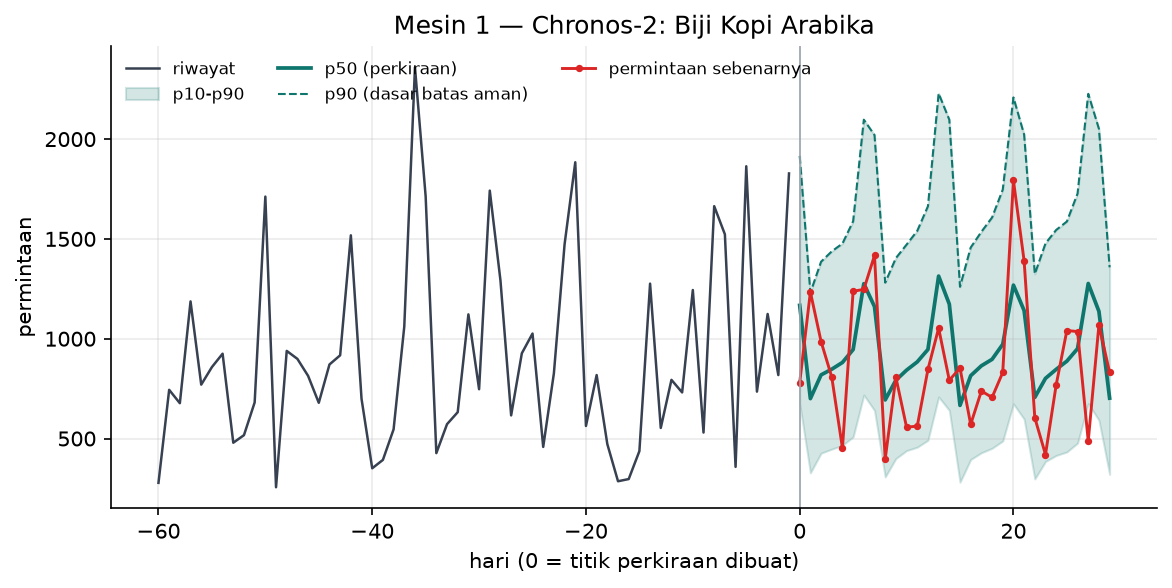
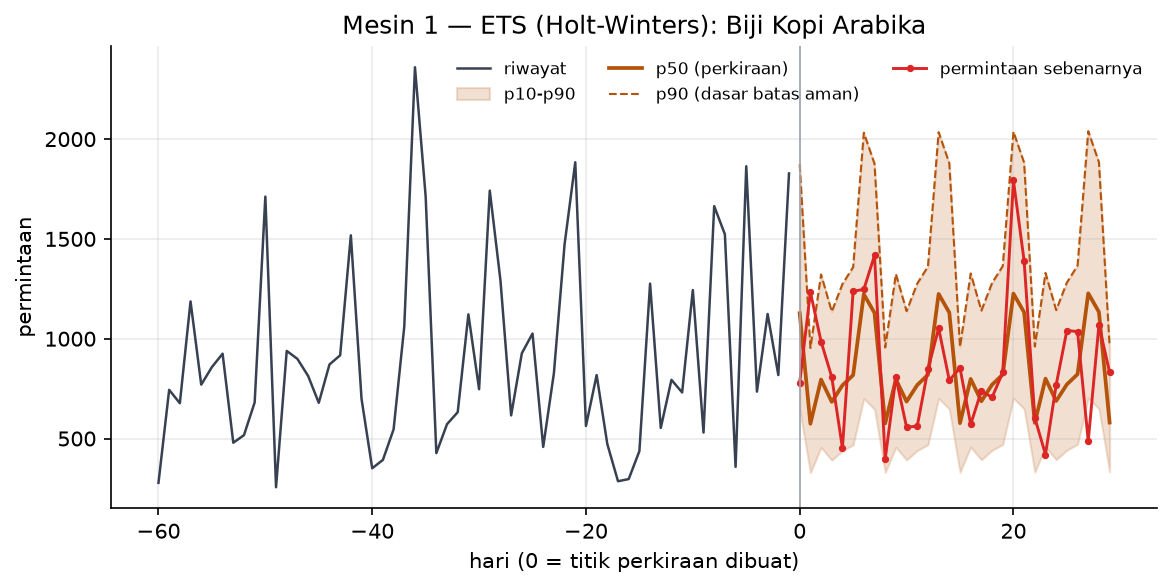
feat: grafik MAPE Mesin 1 dan regret per sumbu

diff --git a/backend/ml/grafik.py b/backend/ml/grafik.py
@@ -37,6 +37,10 @@ WARNA = {
     "kuantil_hari_pekan": "#0e7490",
     "croston": "#9a3412",
     "naif_musiman": "#6b7280",
+    "aturan_sederhana": "#9ca3af",
+    "ets": "#b45309",
+    "sarimax": "#7c3aed",
+    "var": "#be185d",
     "bart": "#0f766e",
     "logistik": "#1d4ed8",
     "pohon": "#b45309",
@@ -108,7 +112,7 @@ def kipas_perkiraan(barang_id: int | None = None) -> Path | None:
     diambil dari tepi atas kipas, bukan dari garis tengahnya.
     """
     from .data import muat_deret
-    from .mesin1.chronos import ramal_banyak
+    from .mesin1.dasar import holt_winters
 
     deret = muat_deret()
     if not deret:
@@ -117,7 +121,8 @@ def kipas_perkiraan(barang_id: int | None = None) -> Path | None:
 
     cakrawala = 30
     akhir = len(d) - cakrawala
-    r = ramal_banyak([(d, akhir)], cakrawala)[0]
+    # Model produksi sejak 10 Okt 2026 adalah ETS, jadi kipasnya juga ETS.
+    r = holt_winters(d, akhir, cakrawala)
 
     ekor = 60
     t_lalu = np.arange(-ekor, 0)
@@ -127,14 +132,15 @@ def kipas_perkiraan(barang_id: int | None = None) -> Path | None:
 
     fig, ax = plt.subplots(figsize=(9, 4))
     ax.plot(t_lalu, lalu, color="#374151", lw=1.2, label="riwayat")
-    ax.fill_between(t_depan, r[0.1], r[0.9], color=WARNA["chronos"], alpha=0.18, label="p10-p90")
-    ax.plot(t_depan, r[0.5], color=WARNA["chronos"], lw=1.8, label="p50 (perkiraan)")
-    ax.plot(t_depan, r[0.9], color=WARNA["chronos"], lw=1.0, ls="--", label="p90 (dasar batas aman)")
+    w = WARNA["holt_winters"]
+    ax.fill_between(t_depan, r[0.1], r[0.9], color=w, alpha=0.18, label="p10-p90")
+    ax.plot(t_depan, r[0.5], color=w, lw=1.8, label="p50 (perkiraan)")
+    ax.plot(t_depan, r[0.9], color=w, lw=1.0, ls="--", label="p90 (dasar batas aman)")
     ax.plot(t_depan, asli, color="#dc2626", lw=1.4, marker="o", ms=2.5, label="permintaan sebenarnya")
     ax.axvline(0, color="#9ca3af", lw=0.8)
     ax.set_xlabel("hari (0 = titik perkiraan dibuat)")
     ax.set_ylabel("permintaan (%s)" % d.satuan if hasattr(d, "satuan") else "permintaan")
-    ax.set_title("Mesin 1 — Chronos-2: %s" % d.nama)
+    ax.set_title("Mesin 1 — ETS (Holt-Winters): %s" % d.nama)
     ax.legend(frameon=False, ncol=3, fontsize=8)
     return _simpan(fig, "mesin1_kipas.png")
 
@@ -171,6 +177,96 @@ def banding_mesin1(berkas: str = "hasil_mesin1.json") -> Path | None:
     return _simpan(fig, "mesin1_banding.png")
 
 
+def _pita_lewis(ax, batas_atas: float) -> None:
+    """Pita latar skala Lewis (1982) dan garis sasaran 5% dari dosen."""
+    for bawah, atas, label, w in (
+        (0, 10, "sangat akurat", "#dcfce7"),
+        (10, 20, "baik", "#ecfccb"),
+        (20, 50, "layak", "#fef9c3"),
+        (50, max(batas_atas, 60), "tidak akurat", "#fee2e2"),
+    ):
+        if bawah >= batas_atas:
+            continue
+        ax.axvspan(bawah, min(atas, batas_atas), color=w, zorder=0)
+        ax.text((bawah + min(atas, batas_atas)) / 2, 1.01, label, transform=ax.get_xaxis_transform(),
+                ha="center", va="bottom", fontsize=7, color="#4b5563")
+    ax.axvline(5, color="#dc2626", lw=1.2, ls="--", zorder=4)
+    ax.text(5, -0.06, "sasaran 5%", transform=ax.get_xaxis_transform(), color="#dc2626",
+            fontsize=7, ha="center", va="top")
+
+
+def mape_mesin1(berkas: str = "hasil_mesin1_pekanan.json") -> Path | None:
+    """
+    MAPE per barang di tiga tingkat: harian, pekanan semua barang, pekanan
+    barang yang lolos saringan. Latarnya pita skala Lewis, garis merahnya
+    sasaran 5% dari dosen — supaya jaraknya terlihat, bukan disembunyikan.
+    """
+    p = KELUARAN / berkas
+    if not p.exists():
+        return None
+    data = sorted(json.load(p.open(encoding="utf-8"))["hasil"], key=lambda x: x["mape_pekanan_lolos"])
+    nama = [d["nama"] for d in data]
+    y = np.arange(len(nama))
+    tinggi = 0.26
+    fig, ax = plt.subplots(figsize=(10, 4.6))
+    batas = max(d["mape_harian"] for d in data) * 1.15
+    _pita_lewis(ax, batas)
+    for geser, kunci, label, alfa in (
+        (-tinggi, "mape_harian", "harian", 0.35),
+        (0, "mape_pekanan", "pekanan, semua barang", 0.65),
+        (tinggi, "mape_pekanan_lolos", "pekanan, barang lolos saringan", 1.0),
+    ):
+        nilai = [d[kunci] for d in data]
+        ax.barh(y + geser, nilai, height=tinggi, color=[_warna(n) for n in nama], alpha=alfa,
+                label=label, zorder=3, edgecolor="white")
+        for i, v in enumerate(nilai):
+            ax.text(v, i + geser, " %.1f%%" % v, va="center", fontsize=7, zorder=5)
+    ax.set_yticks(y, nama)
+    ax.invert_yaxis()
+    ax.set_xlim(0, batas)
+    ax.set_xlabel("MAPE (%), kecil lebih baik")
+    from matplotlib.patches import Patch
+
+    # Legenda abu-abu: warna batang menandai metode, kepekatannya menandai tingkat.
+    ax.legend(
+        handles=[Patch(color="#374151", alpha=a, label=t) for a, t in (
+            (0.35, "harian"), (0.65, "pekanan, semua barang"), (1.0, "pekanan, barang lolos saringan"))],
+        frameon=False, fontsize=8, loc="upper center", bbox_to_anchor=(0.5, -0.16), ncol=3,
+    )
+    ax.set_title("Mesin 1 — MAPE ramalan unit per barang, 8 pekan bergulir", pad=16)
+    return _simpan(fig, "mesin1_mape.png")
+
+
+def mape_omset(berkas: str = "hasil_mesin1_omset.json") -> Path | None:
+    """MAPE pekanan omset per metode, satu panel per sumber data."""
+    p = KELUARAN / berkas
+    if not p.exists():
+        return None
+    data = json.load(p.open(encoding="utf-8"))
+    sumber = [(k, v) for k, v in data.items() if "hasil" in v]
+    if not sumber:
+        return None
+    judul_sumber = {"simulasi": "Simulasi Warungku (70 UMKM)", "french_bakery": "French Bakery (toko roti nyata)"}
+
+    fig, sumbu = plt.subplots(1, len(sumber), figsize=(5.4 * len(sumber), 3.8), squeeze=False)
+    for ax, (k, v) in zip(sumbu[0], sumber):
+        hasil = sorted(v["hasil"], key=lambda x: x["mape_pekanan"])
+        nama = [h["nama"] for h in hasil]
+        nilai = [h["mape_pekanan"] for h in hasil]
+        batas = max(25.0, max(nilai) * 1.25)
+        _pita_lewis(ax, batas)
+        ax.barh(nama, nilai, color=[_warna(n) for n in nama], zorder=3)
+        ax.invert_yaxis()
+        for i, x in enumerate(nilai):
+            ax.text(x, i, " %.1f%%" % x, va="center", fontsize=8, zorder=5)
+        ax.set_xlim(0, batas)
+        ax.set_xlabel("MAPE pekanan omset (%)")
+        ax.set_title("%s\n%d pekan dinilai" % (judul_sumber.get(k, k), hasil[0]["n_pekan"]), fontsize=9, pad=16)
+    fig.suptitle("Mesin 1 — ramalan omset 7 hari ke depan", y=1.04)
+    fig.tight_layout()
+    return _simpan(fig, "mesin1_omset.png")
+
+
 # --------------------------------------------------------------------------
 def kurva_regret(berkas: str = "hasil_simulasi_mesin2.json") -> Path | None:
     """
@@ -186,36 +282,34 @@ def kurva_regret(berkas: str = "hasil_simulasi_mesin2.json") -> Path | None:
     data = json.load(p.open(encoding="utf-8"))
     acuan = data["acuan"]
 
-    fig, ax = plt.subplots(figsize=(9.5, 4.6))
+    # Satu panel per sumbu percobaan. Sebelas garis dalam satu panel tidak
+    # terbaca, dan tiap sumbu memang hanya mengubah satu hal: perbandingan yang
+    # bermakna ada di dalam panel, bukan antarpanel.
+    sumbu: dict[str, list] = {}
     for h in data["hasil"]:
-        if not h["kurva"]:
-            continue
-        x = np.arange(len(h["kurva"]))
-        ax.plot(
-            x, h["kurva"], lw=1.6,
-            color=_warna_kebijakan(h["nama"]),
-            ls=_gaya_penaksir(h["nama"]),
-            label=h["nama"],
-        )
-
-    # Garis acuan: kalau setiap keputusan diambil dengan kebijakan termurah.
+        if h["kurva"]:
+            sumbu.setdefault(h.get("sumbu", "semua"), []).append(h)
     n_hari = max((len(h["kurva"]) for h in data["hasil"]), default=0)
-    if n_hari:
-        per_hari = acuan["keputusan"] / n_hari
-        x = np.arange(n_hari)
-        ax.plot(
-            x, x * per_hari * acuan["termurah_regret"], lw=1.4, ls="--",
-            color=WARNA["termurah"], label="selalu termurah (kebijakan sekarang)",
-        )
-        ax.plot(
-            x, x * per_hari * acuan["acak_regret"], lw=1.2, ls=":",
-            color=WARNA["acak"], label="memilih acak",
-        )
+    palet = ["#0f766e", "#1d4ed8", "#b45309", "#7c3aed", "#be185d"]
 
-    ax.set_xlabel("hari simulasi")
-    ax.set_ylabel("regret kumulatif (pesanan gagal yang bisa dihindari)")
-    ax.set_title("Mesin 2 — regret kumulatif: makin landai makin baik")
-    ax.legend(frameon=False, fontsize=8, ncol=2)
+    fig, panel = plt.subplots(1, len(sumbu), figsize=(5.2 * len(sumbu), 4.6), sharey=True, squeeze=False)
+    for ax, (nama_sumbu, isi) in zip(panel[0], sumbu.items()):
+        for i, h in enumerate(sorted(isi, key=lambda x: x["regret_total"])):
+            ax.plot(np.arange(len(h["kurva"])), h["kurva"], lw=1.6, color=palet[i % len(palet)],
+                    label="%s (%s)" % (h["nama"], f"{h['regret_total']:,.0f}".replace(",", ".")))
+        if n_hari:
+            per_hari = acuan["keputusan"] / n_hari
+            x = np.arange(n_hari)
+            ax.plot(x, x * per_hari * acuan["termurah_regret"], lw=1.3, ls="--",
+                    color=WARNA["termurah"], label="selalu termurah")
+            ax.plot(x, x * per_hari * acuan["acak_regret"], lw=1.2, ls=":",
+                    color=WARNA["acak"], label="memilih acak")
+        ax.set_title(nama_sumbu.split(" (")[0], fontsize=10)
+        ax.set_xlabel("hari simulasi")
+        ax.legend(frameon=False, fontsize=7, loc="upper left")
+    panel[0][0].set_ylabel("regret kumulatif (pesanan gagal yang bisa dihindari)")
+    fig.suptitle("Mesin 2 — regret kumulatif: makin landai makin baik (angka = regret total)", y=1.02)
+    fig.tight_layout()
     return _simpan(fig, "mesin2_regret.png")
 
 
@@ -332,6 +426,8 @@ def semua() -> list[Path]:
     for nama, f in (
         ("kipas perkiraan", kipas_perkiraan),
         ("banding Mesin 1", banding_mesin1),
+        ("MAPE Mesin 1", mape_mesin1),
+        ("MAPE omset", mape_omset),
         ("kurva regret", kurva_regret),
         ("banding Mesin 2", banding_mesin2),
         ("kompromi Mesin 2", kompromi_mesin2),
